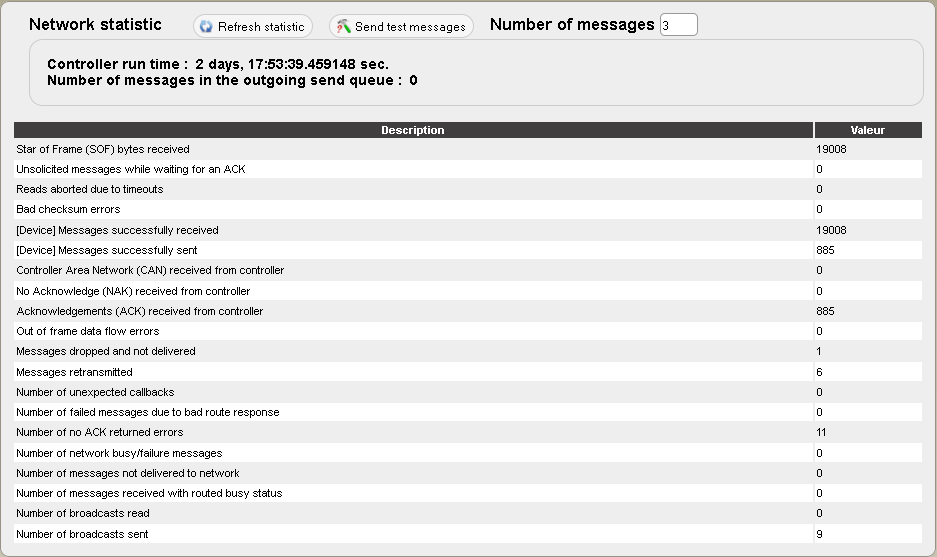
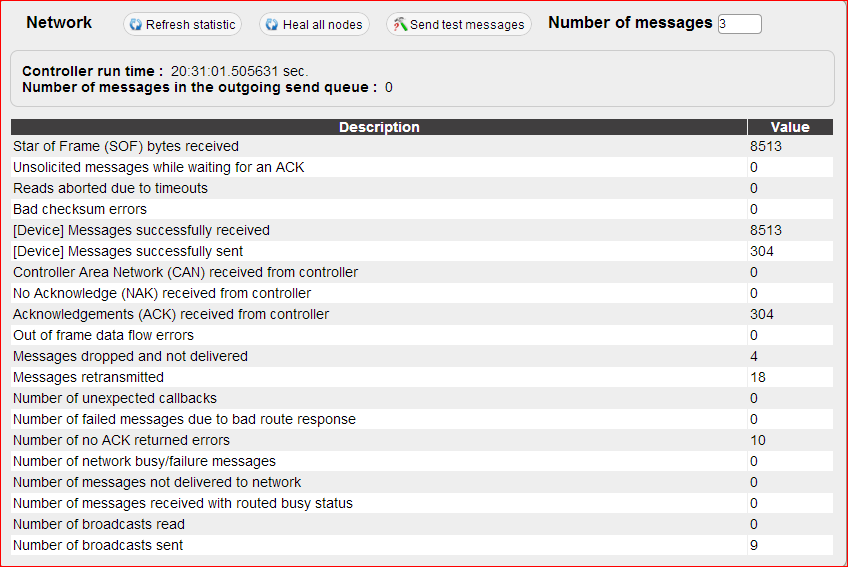
ozwave: prepare 0.2c4

diff --git a/src/domogik_packages/xpl/lib/ozwnode.py b/src/domogik_packages/xpl/lib/ozwnode.py
@@ -106,7 +106,7 @@ class ZWaveNode:
     isReceiver = property(lambda self: self._receiver)
     isReady = property(lambda self: self._ready)
     isNamed = property(lambda self: self._named)
-    isFailed = property(lambda self: self._failed)
+    isFailed = property(lambda self: self._isFailed())
     level = property(lambda self: self._getLevel())
     isOn = property(lambda self: self._getIsOn())
     batteryLevel = property(lambda self: self._getBatteryLevel())
@@ -216,6 +216,14 @@ class ZWaveNode:
             else : return 'Undefined'
         else : return 'Undefined'
         
+    def GetCurrentQueryStage(self):
+        """ Retourn le stade ou le node est dans sa procédure d'indentification.
+            "ProtocolInfo", "Probe", "WakeUp", "ManufacturerSpecific1", "NodeInfo", "ManufacturerSpecific2", "Versions", "Instances",
+            "Static", "Probe1", "Associations", "Neighbors", "Session", "Dynamic", "Configuration", "Complete", "None", "Unknow"
+        """
+        return self._manager.getNodeQueryStage(self._homeId,  self._nodeId)
+        
+        
     def GetNodeStateNW(self):
         """Retourne une chaine décrivant l'état d'initialisation du device  
            Status = {0:'Uninitialized',
@@ -235,7 +243,7 @@ class ZWaveNode:
         if self.isReady : retval = NodeStatusNW[1]
         if self.isReady and self.isNamed : retval = NodeStatusNW[2]
         if self.isFailed : retval = NodeStatusNW[6]
-        print ('node state linked:',  self.isLinked, ' isReceiver:', self.isReceiver, ' isReady:', self.isReady, 'isNamed:', self.isNamed, ' isFailed:', self.isFailed )
+        print ('node state linked:',  self.isLinked, ' isReceiver:', self.isReceiver, ' isReady:', self.isReady, 'isNamed:', self.isNamed, ' isFailed:', self._failed )
         return retval
         
     def getMemoryUsage(self):
@@ -410,17 +418,19 @@ class ZWaveNode:
         )
     
     def  _isSleeping(self):
-        "Interroge le node pour voir son etat"
-        # TODO: A perfectionner, pour l'instant basé d'après la notification d'openzwave (plus sur la capacité du node et non son etat réel).
-        retval = self._sleeping
-    #     if 'Listening' in self._capabilities : retval = False
-    #    else : 
-    #        if (time.time() - self.lastUpdate) > 30 :
-    #            retval = True
-    #        else :  retval = False
-    #    print '+++++ node ', self._nodeId,  ' is Sleeping ? :', retval, ' ++++'
-    #   if retval : print "WakeUp commandClass : ",  self._manager.getNodeClassInformation(self._homeId, self._nodeId, 0x84 ) # 'COMMAND_CLASS_WAKE_UP
-        return retval              
+        "Interroge le node pour voir son etat et envoi une notification UI si changement."
+        state = not self._manager.isNodeAwake(self._homeId, self._nodeId)
+        if self._sleeping != state : self.setSleeping(state)
+        return self._sleeping         
+    
+    def _isFailed(self):
+        "Interroge le node pour voir son etat et envoi une notification UI si changement."
+        state = self._manager.isNodeFailed(self._homeId, self._nodeId)
+        if self._failed != state : 
+            if state : self.markAsFailed()
+            else : self.markAsOK()
+        return self._failed         
+     
     
     def _updateNeighbors(self):
         """Mise à jour de la liste des nodes voisins"""
@@ -620,7 +630,7 @@ class ZWaveNode:
         self._updateCommandClasses()
         retval["HomeID"] ="0x%.8x" % self.homeId
         retval["Model"]= self.manufacturer + " -- " + self.product
-        retval["State sleeping"] = True if self.isSleeping else False
+        retval["State sleeping"] = self.isSleeping
         retval["Node"] = self.nodeId
         retval["Name"] = self.name if self.name else 'Undefined'
         retval["Location"] = self.location if self.location else 'Undefined'
@@ -630,6 +640,7 @@ class ZWaveNode:
         retval["Groups"] = self._getGroupsDict()
         retval["Capabilities"] = list(self._capabilities) if  self._capabilities else list(['No one'])
         retval["InitState"] = self.GetNodeStateNW()
+        retval["Stage"] = self.GetCurrentQueryStage()
         retval["Polled"] = self.isPolled
         retval["ComQuality"] = self.getComQuality()
         retval["BatteryLevel"] = self._getBatteryLevel()

diff --git a/src/domogik_packages/xpl/lib/ozwave.py b/src/domogik_packages/xpl/lib/ozwave.py
@@ -844,7 +844,8 @@ class OZWavemanager(threading.Thread):
         retval["OZWPluginVers"] = OZWPLuginVers
         if self.ready :
             retval["HomeID"] ="0x%.8x" % self.homeId
-            retval["Model"]= self.controllerNode.manufacturer + " -- " + self.controllerNode.product
+            retval["Model"] = self.controllerNode.manufacturer + " -- " + self.controllerNode.product
+            retval["Protocol"] = self._manager.getControllerInterfaceType(self.homeId)
             retval["Primary controller"] = self.controllerDescription
             retval["Device"] = self.device
             retval["Node"] = self.controllerNode.nodeId
@@ -998,6 +999,17 @@ class OZWavemanager(threading.Thread):
             else : retval['error'] = "Can't test primary controller, node %d." %nodeId
             return retval
         else : return {"error" : "Zwave network not ready, can't find node %d" % nodeId}
+    
+    def healNetwork(self, homeId, upNodeRoute):
+        """Tente de 'réparé' des nodes pouvant avoir un problème. Passe tous les nodes un par un"""
+        if self.ready :
+            self._manager.healNetwork(homeId, upNodeRoute)
+
+    def healNetworkNode(self, homeId, nodeId,  upNodeRoute):
+        """Tente de 'réparé' un node particulier pouvant avoir un problème."""
+        if self.ready :
+            node = self._getNode(homeId,  nodeId)
+            if node : self._manager.healNetworkNode(homeId, nodeId,  upNodeRoute)
         
     def getGeneralStatistics(self):
         """Retourne les statistic générales du réseaux"""
@@ -1122,6 +1134,15 @@ class OZWavemanager(threading.Thread):
                     else : report = {'error':  'Invalide nodeId format.'}
                     ackMsg['node'] = message['node']
                     print "Refresh node :", report
+                elif message['request'] == 'HealNode' :
+                    if self._IsNodeId(message['node']):
+                        self.healNetworkNode(self.homeId,  message['node'],  message['forceroute'])
+                        report = {'usermsg':'Command sended, please wait for result...'}
+                    else : report = {'error':  'Invalide nodeId format.'}
+                    ackMsg['node'] = message['node']
+                elif message['request'] == 'HealNetwork' :
+                    self.healNetwork(self.homeId, message['forceroute'])
+                    report = {'usermsg':'Command sended node by node, please wait for each result...'}
                 elif message['request'] == 'SaveConfig':
                     report = self.saveNetworkConfig()
                 elif message['request'] == 'GetMemoryUsage':

diff --git a/src/domogik_packages/xpl/lib/ozwdefs.py b/src/domogik_packages/xpl/lib/ozwdefs.py
@@ -44,7 +44,7 @@ import sys
 
 FlagDebug = False # pour debug eviter recurtion +2, passé a True pour debug
 
-OZWPLuginVers = "0.2c3"
+OZWPLuginVers = "0.2c4"
 # Déclaration de tuple nomée pour la clarification des infos des noeuds zwave (node)
 # Juste à rajouter ici la déclaration pour future extension.
 NamedPair = namedtuple('NamedPair', ['id', 'name'])
